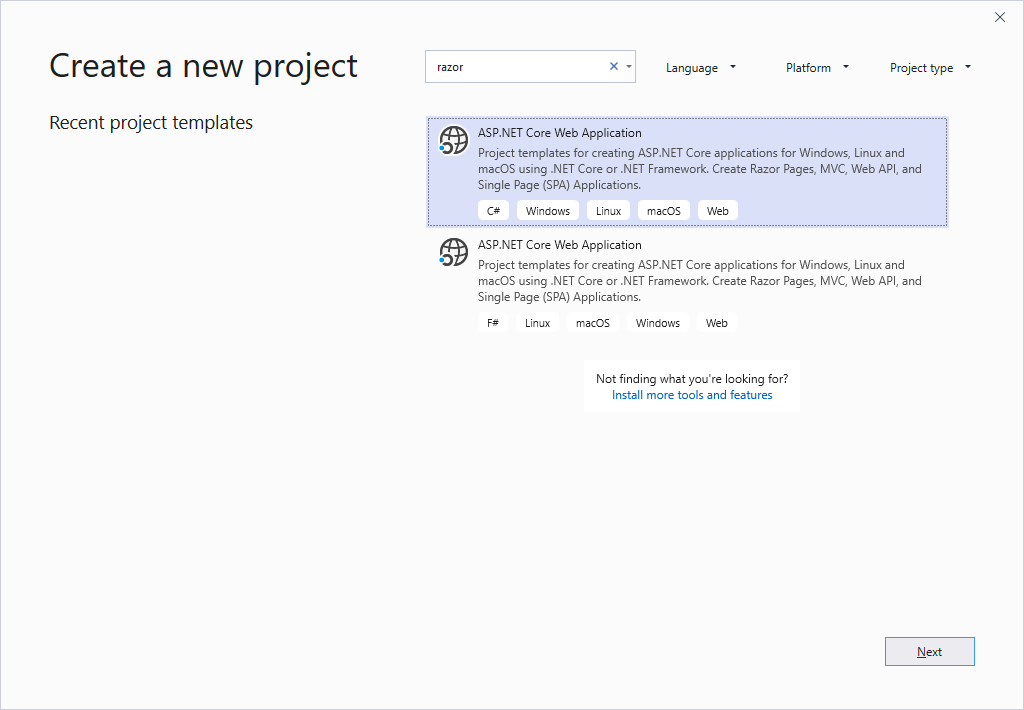
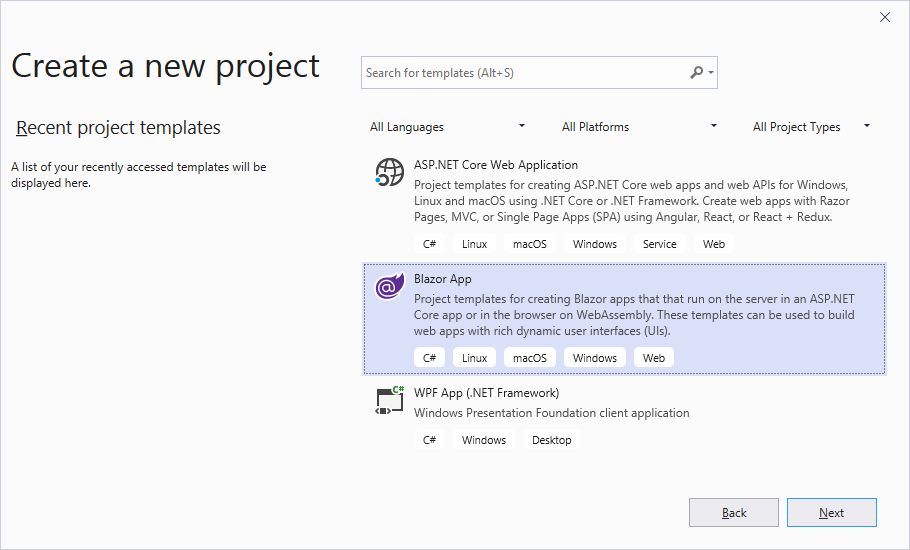
Update Readme - create new project

diff --git a/README.md b/README.md
@@ -81,11 +81,11 @@ Follow the steps below to try our UI for Blazor in your own application.
 
 1. Create a new solution using the "Blazor (server-side)" or "Blazor" template in Visual Studio 2019.
 
-  In the "Create a new project" dialog select "ASP.NET Core Web Application (where the language is C#).
+  In the "Create a new project" dialog select "Blazor App".
   
   ![Create New ASP.NET Core Web Application Project"](media/VisualStudio2019CreateNewProject_AspNetCoreWebApp.png)
 
-  In the next step ensure that an "ASP.NET Core 3.\*" framework is selected, and select the "Blazor (server-side)" project template.
+  In the next step select the "Blazor (server-side)" project template.
   
   ![Create New ASP.NET Core Web Application Project"](media/VisualStudio2019CreateNewProject_Blazor.png)
 
